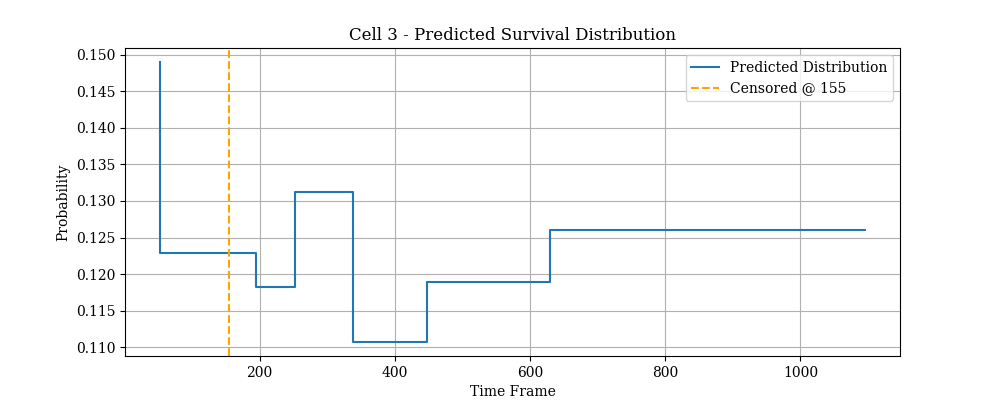
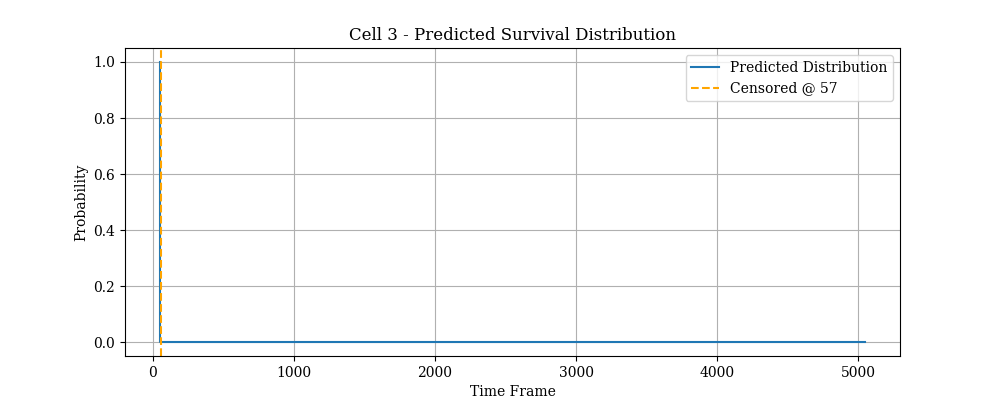
Dyanmic deep hit datset does uniform random landmarking

diff --git a/PhagoPred/survival_analysis/data/dataset.py b/PhagoPred/survival_analysis/data/dataset.py
@@ -12,7 +12,7 @@ class CellDataset(torch.utils.data.Dataset):
     def __init__(self,
                  hdf5_paths: list[Path],
                  features: list[str],
-                 pre_death_frames: int=0,
+                #  pre_death_frames: int=0,
                  interpolate_nan: bool=False,
                  means: np.ndarray=None,
                  stds: np.ndarray=None,
@@ -33,7 +33,7 @@ class CellDataset(torch.utils.data.Dataset):
         """
         self.hdf5_paths = hdf5_paths
         self.features = features
-        self.pre_death_frames = pre_death_frames
+        # self.pre_death_frames = pre_death_frames
         self.interpolate_nan = interpolate_nan
         self.specified_cell_idxs = specified_cell_idxs if specified_cell_idxs and len(self.hdf5_paths) == 1 else None
         self.num_bins = num_bins
@@ -71,7 +71,8 @@ class CellDataset(torch.utils.data.Dataset):
     
     def _compute_bins(self):
         obs_times = self.cell_metadata['End Frames'] - self.cell_metadata['Start Frames'] + 1
-        bins = np.quantile(obs_times, np.linspace(0, 1, self.num_bins + 1))
+        # bins = np.quantile(obs_times, np.linspace(0, 1, self.num_bins + 1))
+        bins = np.linspace(np.min(obs_times), np.max(obs_times), self.num_bins + 1)
         return bins
     
     def get_bins(self):
@@ -154,15 +155,25 @@ class CellDataset(torch.utils.data.Dataset):
         all_cell_features = self._get_features_xr(cell_metadata['File Idxs'])
         
         observation_time = cell_metadata['End Frames'] - cell_metadata['Start Frames'] + 1
-        event_indicator = 0 if np.isnan(cell_metadata['Death Frames']) else 1
+        # event_indicator = 0 if np.isnan(cell_metadata['Death Frames']) else 1
+
+        landmark_frame = np.random.randint(cell_metadata['Start Frames'], cell_metadata['End Frames'])
 
         cell_features = all_cell_features.isel({'Cell Index': cell_metadata['Local Cell Idxs']})
-        cell_features = cell_features.sel(Frame=slice(cell_metadata['Start Frames'], cell_metadata['End Frames'] - self.pre_death_frames if event_indicator == 1 else cell_metadata['End Frames']))
+        cell_features = cell_features.sel(Frame=slice(cell_metadata['Start Frames'], landmark_frame))
         cell_features = cell_features.to_dataarray(dim='Feature')
         cell_features = cell_features.transpose('Frame', 'Feature').values # [num_frames, num_features]
-
-        observation_time_bin = np.digitize(observation_time, self.get_bins()) - 1  # Bin the observation time
-        observation_time_bin = np.clip(observation_time_bin, 0, self.num_bins - 1)
+        
+        death_frame = cell_metadata['Death Frames']
+        if np.isnan(death_frame):
+            event_indicator = 0
+            time_to_event = cell_metadata['End Frames'] - landmark_frame
+        else:
+            event_indicator = 1
+            time_to_event = death_frame - landmark_frame
+            
+        time_to_event_bin = np.digitize(time_to_event, self.get_bins()) - 1  # Bin the observation time
+        time_to_event_bin = np.clip(time_to_event_bin, 0, self.num_bins - 1)
 
         # # Create mask of non-NaNs using torch.isnan
         # nan_mask = ~np.isnan(cell_features)
@@ -177,7 +188,7 @@ class CellDataset(torch.utils.data.Dataset):
         # print(self.get_bins())
         # print(observation_time)
 
-        return cell_features, observation_time_bin, event_indicator, observation_time
+        return cell_features, time_to_event_bin, event_indicator, time_to_event
 
     def plot_event_vs_censoring_hist(self, title='Events vs Censored', save_path=None, bins=16, show=False):
         """
@@ -221,12 +232,12 @@ def collate_fn(batch, fixed_length=None, means=None, stds=None, device='cpu'):
     """
     Custom collate function to handle variable-length sequences and padding.
     """
-    cell_features, observation_time_bins, event_indicators, observation_times = zip(*batch)
+    cell_features, time_to_event_bins, event_indicators, time_to_events = zip(*batch)
     # print(observation_times)
 
-    observation_time_bins = torch.tensor(observation_time_bins, dtype=torch.long, device=device)
+    time_to_event_bins = torch.tensor(time_to_event_bins, dtype=torch.long, device=device)
     event_indicators = torch.tensor(event_indicators, dtype=torch.float32, device=device)
-    observation_times = torch.tensor(observation_times, dtype=torch.long, device=device)
+    time_to_events = torch.tensor(time_to_events, dtype=torch.long, device=device)
     # print(observation_times)
 
     cell_features = [torch.tensor(features, dtype=torch.float32, device=device) for features in cell_features]  # List of [num_frames, num_features]
@@ -255,7 +266,7 @@ def collate_fn(batch, fixed_length=None, means=None, stds=None, device='cpu'):
     # Concatenate mask as additional features along last dimension
     cell_features = torch.cat([cell_features, nan_mask.float()], dim=-1)  # shape: [batch, frames, features*2]
 
-    return cell_features, lengths, observation_time_bins, event_indicators, observation_times
+    return cell_features, lengths, time_to_event_bins, event_indicators, time_to_events
 
 
 

diff --git a/PhagoPred/survival_analysis/validate.py b/PhagoPred/survival_analysis/validate.py
@@ -16,15 +16,15 @@ def validate_step(model, dataloader, loss_fn, device):
 
     with torch.no_grad():
         for batch in dataloader:
-            cell_features, lengths, observation_time_bins, event_indicators, observation_times = batch
+            cell_features, lengths, time_to_event_bins, event_indicators, time_to_events = batch
             cell_features = cell_features.to(device)
             lengths = lengths.to(device)
-            observation_time_bins = observation_time_bins.to(device)
+            time_to_event_bins = time_to_event_bins.to(device)
             event_indicators = event_indicators.to(device)
-            observation_times = observation_times.to(device)
+            time_to_events = time_to_events.to(device)
 
             outputs, y = model(cell_features)
-            loss_values = loss_fn(outputs, cell_features, y, observation_time_bins, event_indicators)
+            loss_values = loss_fn(outputs, cell_features, y, time_to_event_bins, event_indicators)
             for key, value in zip(
                 ['Total Loss', 'NLL Loss', 'Ranking Loss', 'Prediction Loss'], loss_values):
                 losses[key] += value.item() * cell_features.size(0)  # Multiply by batch size
@@ -40,12 +40,12 @@ def visualize_validation_predictions(model, dataloader, device, bin_edges, num_e
 
     with torch.no_grad():
         for batch in dataloader:
-            
-            cell_features, lengths, observation_time_bins, event_indicators, observation_times = batch
+
+            cell_features, lengths, time_to_event_bins, event_indicators, time_to_events = batch
             cell_features = cell_features.to(device)
-            observation_time_bins = observation_time_bins.cpu().numpy()
+            time_to_event_bins = time_to_event_bins.cpu().numpy()
             event_indicators = event_indicators.cpu().numpy()
-            observation_times = observation_times.cpu().numpy()
+            time_to_events = time_to_events.cpu().numpy()
 
             # Get predicted distribution over time bins
             predicted_dists, _ = model(cell_features)  # Shape: (batch_size, time_bins)
@@ -61,7 +61,7 @@ def visualize_validation_predictions(model, dataloader, device, bin_edges, num_e
                     print(f"Distribution difference between {i} and {i-1}: {diff}")
                     print(f"Input difference between {i} and {i-1}: {input_diff}")
                 pred_dist = predicted_dists[i]
-                true_time = observation_times[i]
+                true_time = time_to_events[i]
                 event = event_indicators[i]
 
                 plt.figure(figsize=(10, 4))

diff --git a/PhagoPred/survival_analysis/train.py b/PhagoPred/survival_analysis/train.py
@@ -21,15 +21,15 @@ def train_step(model, dataloader, optimiser, loss_fn, device):
     losses = defaultdict(float)
     
     for batch in dataloader:
-        cell_features, lengths, observation_time_bins, event_indicators, observation_times = batch
+        cell_features, lengths, time_to_event_bins, event_indicators, time_to_event = batch
         cell_features = cell_features.to(device)
         lengths = lengths.to(device)
-        observation_time_bins = observation_time_bins.to(device)
+        time_to_event_bins = time_to_event_bins.to(device)
         event_indicators = event_indicators.to(device)
 
         optimiser.zero_grad()
         outputs, y = model(cell_features)
-        loss_values = loss_fn(outputs, cell_features, y, observation_time_bins, event_indicators)
+        loss_values = loss_fn(outputs, cell_features, y, time_to_event_bins, event_indicators)
         
         loss = loss_values[0]
         loss.backward()
